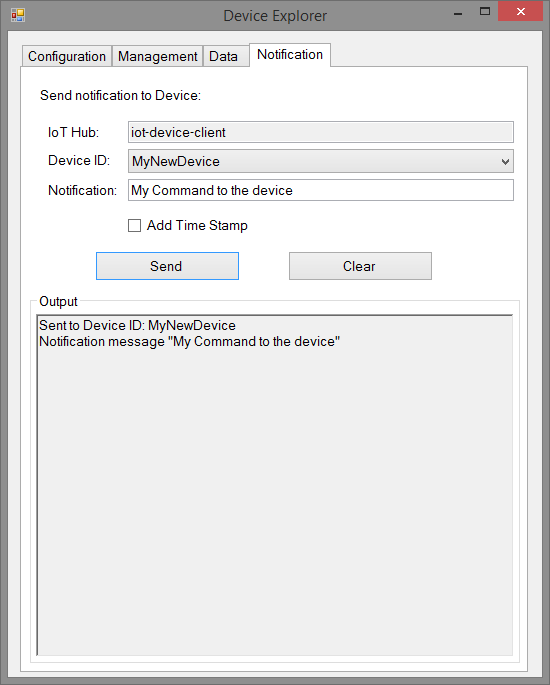
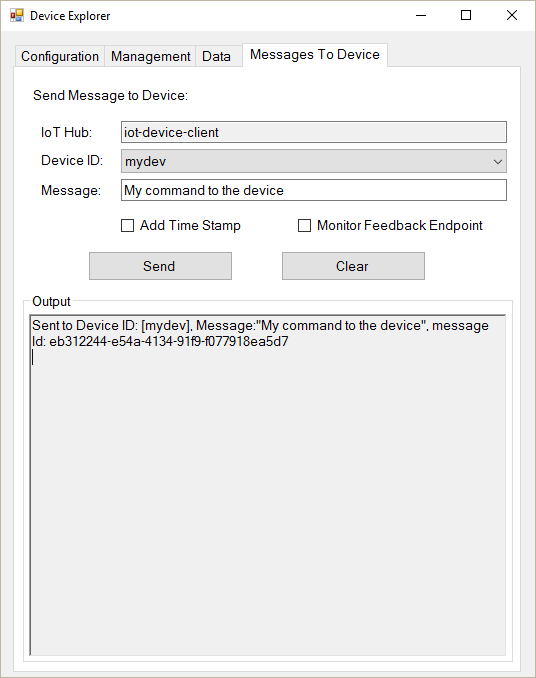
Fix device explorer's 'how to use' doc text/screenshot
The 'notifications' tab is now called 'Message To Device'.
This commit fixes the screen shot and some text relevant
to this tab.

Changed region(s): [[0.0, 0.0, 1.0, 1.0], [0.5373, 0.3097, 0.8955, 0.3717]]

diff --git a/tools/DeviceExplorer/doc/how_to_use_device_explorer.md b/tools/DeviceExplorer/doc/how_to_use_device_explorer.md
@@ -12,7 +12,7 @@ This topic describes how to download, build and use the Device Explorer tool for
   - [Delete device](#deletedevice)
   - [Get device connection string or data](#getdatadevice)
 - [Monitor device-to-cloud events](#monitor)
-- [Send cloud-to-device notifications](#send)
+- [Send cloud-to-device messages](#send)
 
 <a name="download"/>
 ## Download a pre-built version of the Device Explorer application
@@ -116,13 +116,13 @@ You can use one of the sample applications included in this repository to send d
   ![](media/device_explorer/iotgetstart7.png)
 
 <a name="send"/>
-## Send cloud-to-device notifications
+## Send cloud-to-device messages
 
--  To verify that you can send notifications from the IoT Hub to your device, go to the **Notification** tab in Device Explorer.
+-  To verify that you can send messages from the IoT Hub to your device, go to the **Messages To Device** tab in Device Explorer.
 
 -  Select the device you created.
 
--  Add some text to the **Notification** field, then click **Send**.
+-  Add some text to the **Message** field, then click **Send**.
 
   ![](media/device_explorer/iotgetstart8.png)
 
